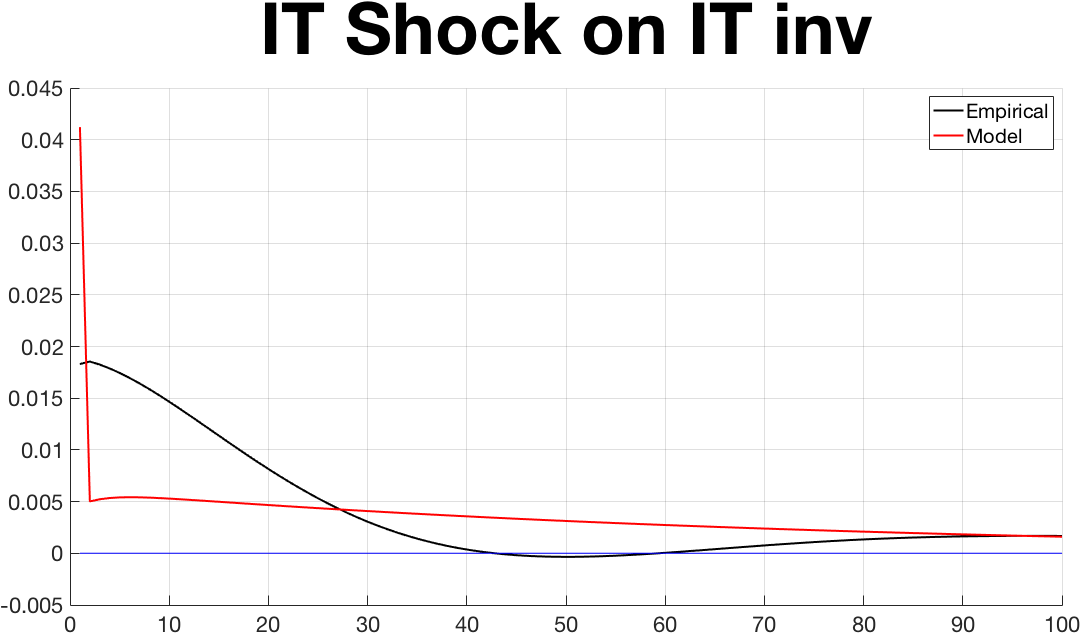
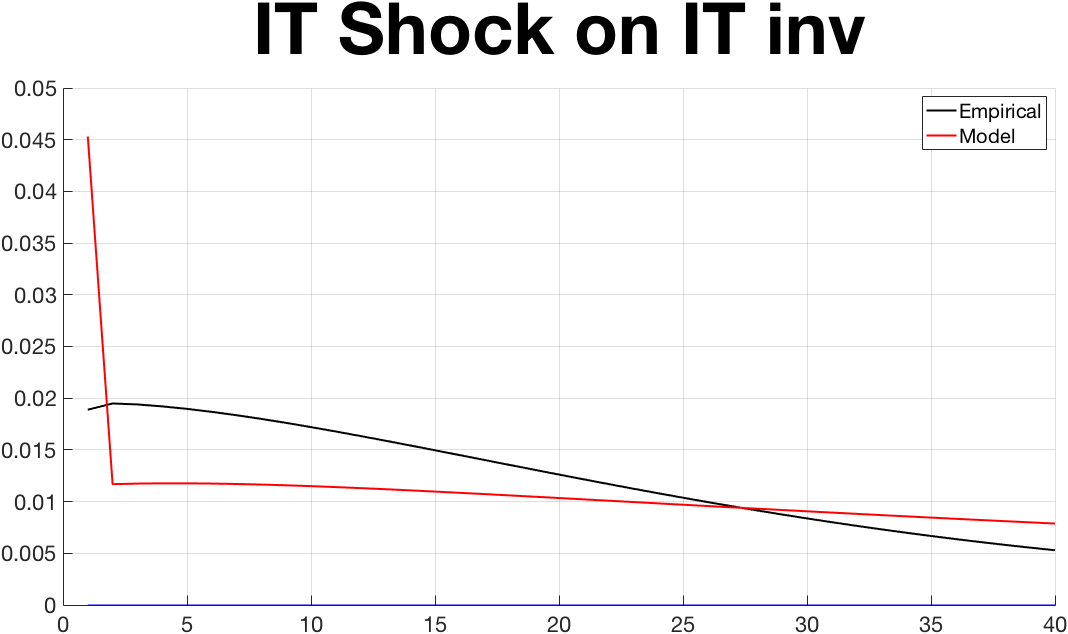
IR-matching 40 periods

diff --git a/Code/oulton2010/main_file_IRmatching.m b/Code/oulton2010/main_file_IRmatching.m
@@ -102,20 +102,22 @@ set = struct2array(set);
 %**********************************************************
 % STAGE 2. Input IRFs from VAR
 %**********************************************************
-load('Workspace_Just_IT_SVAR_1LAG.mat') % --->>>>> this is specific to BriantiGati2017
+% load('Workspace_Just_IT_SVAR_1LAG.mat') % --->>>>> this is specific to BriantiGati2017
+load('main_just_IT_noHOURS_1LAG') % --->>>>> this is specific to BriantiGati2017
 
 % Construct VAR IRFs to shocks of your choice
 % Size of imported VAR IRFs is (nvar, T, nshocks)
 nvar_VAR_orig = size(IRFs,1);
-T_VAR        = size(IRFs,2);
+% T_VAR        = size(IRFs,2);
+T_VAR        = 40;
 nshocks_VAR  = size(IRFs,3);
 % choose which variables responses to match from the VAR
-variables_from_VAR = [1 3 5 6];
+variables_from_VAR = [1 2 4 5];
 IRF_IT    = IRFs(variables_from_VAR,:,pos_IT); % response of all vars to IT shock % --->>>>> this is specific to BriantiGati2017
 nvar_VAR  = size(IRF_IT,1);
 
 % Gather the VAR IRFs to all the relevant shocks
-IRFs_VAR = IRF_IT'; % --->>>>> this is specific to BriantiGati2017
+IRFs_VAR = IRF_IT(:,1:T_VAR)'; % --->>>>> this is specific to BriantiGati2017
 psi_hat  = IRFs_VAR(:);
 
 
@@ -241,7 +243,7 @@ else
     addpath([base_path '/Code/just_IT_vecm']) %for Mac
 end
 
-print_figs ='yes'; 
+print_figs ='no'; 
 plot_matchedIRFs(IRF_IT,ir_matched,T_VAR,1,shocknames, {'TFP','IT inv', 'C', 'RP'}, print_figs, base_path, 'IRmatching_together')
 
 param_names = {'gam', 'sigitlev', 'rhoitlev'};
